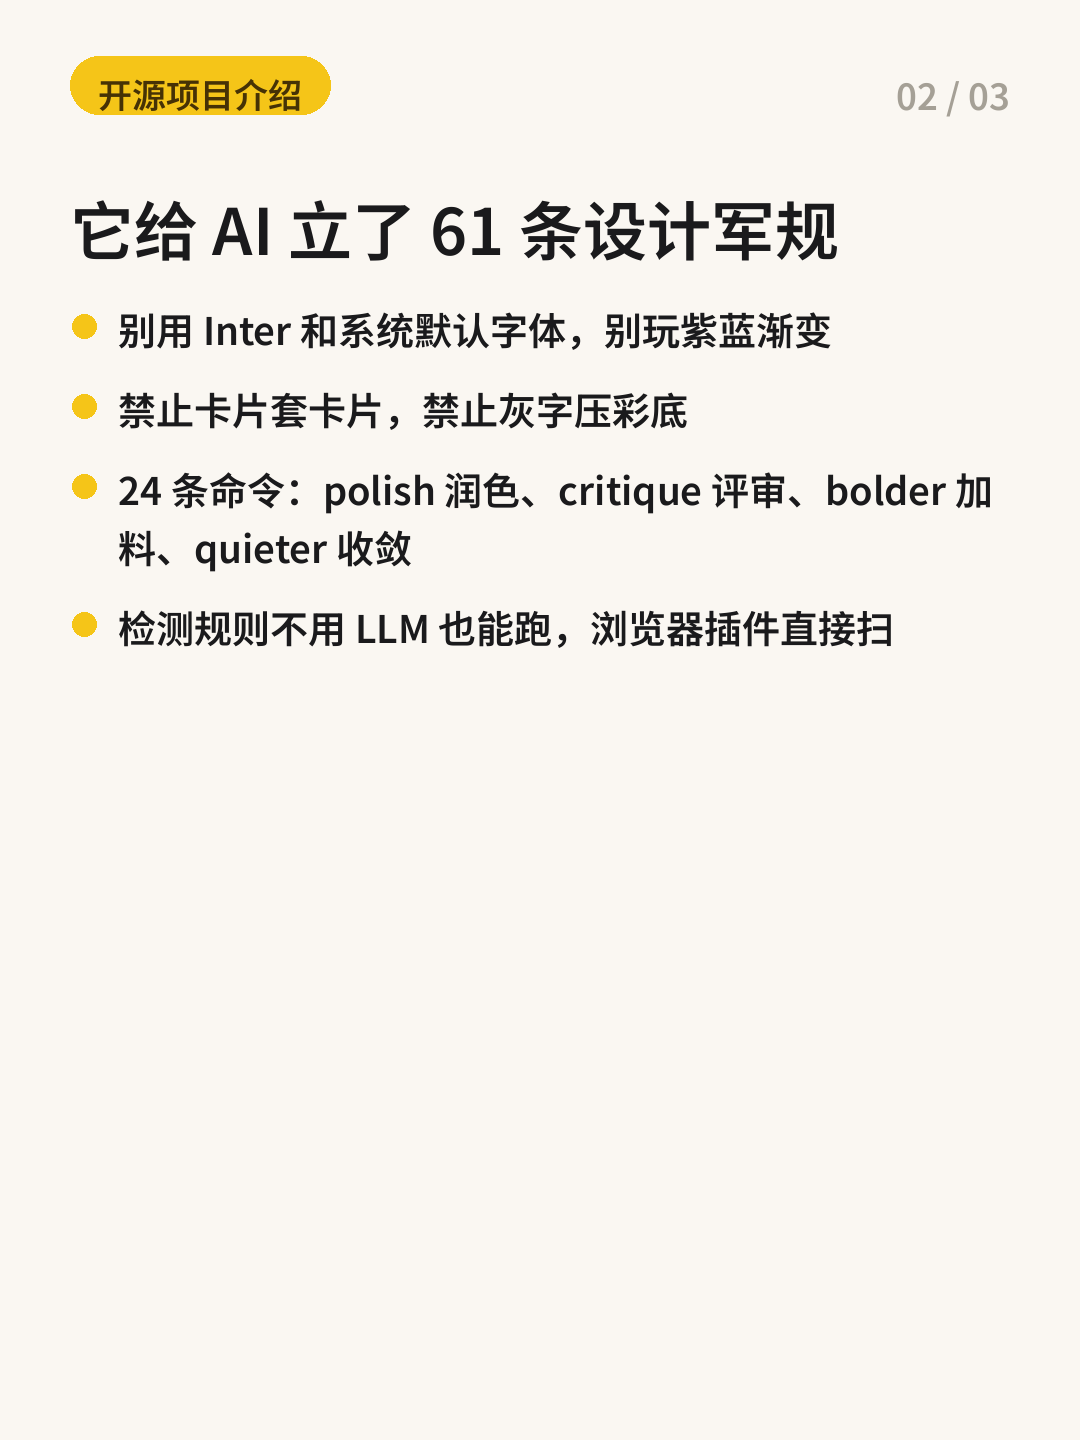
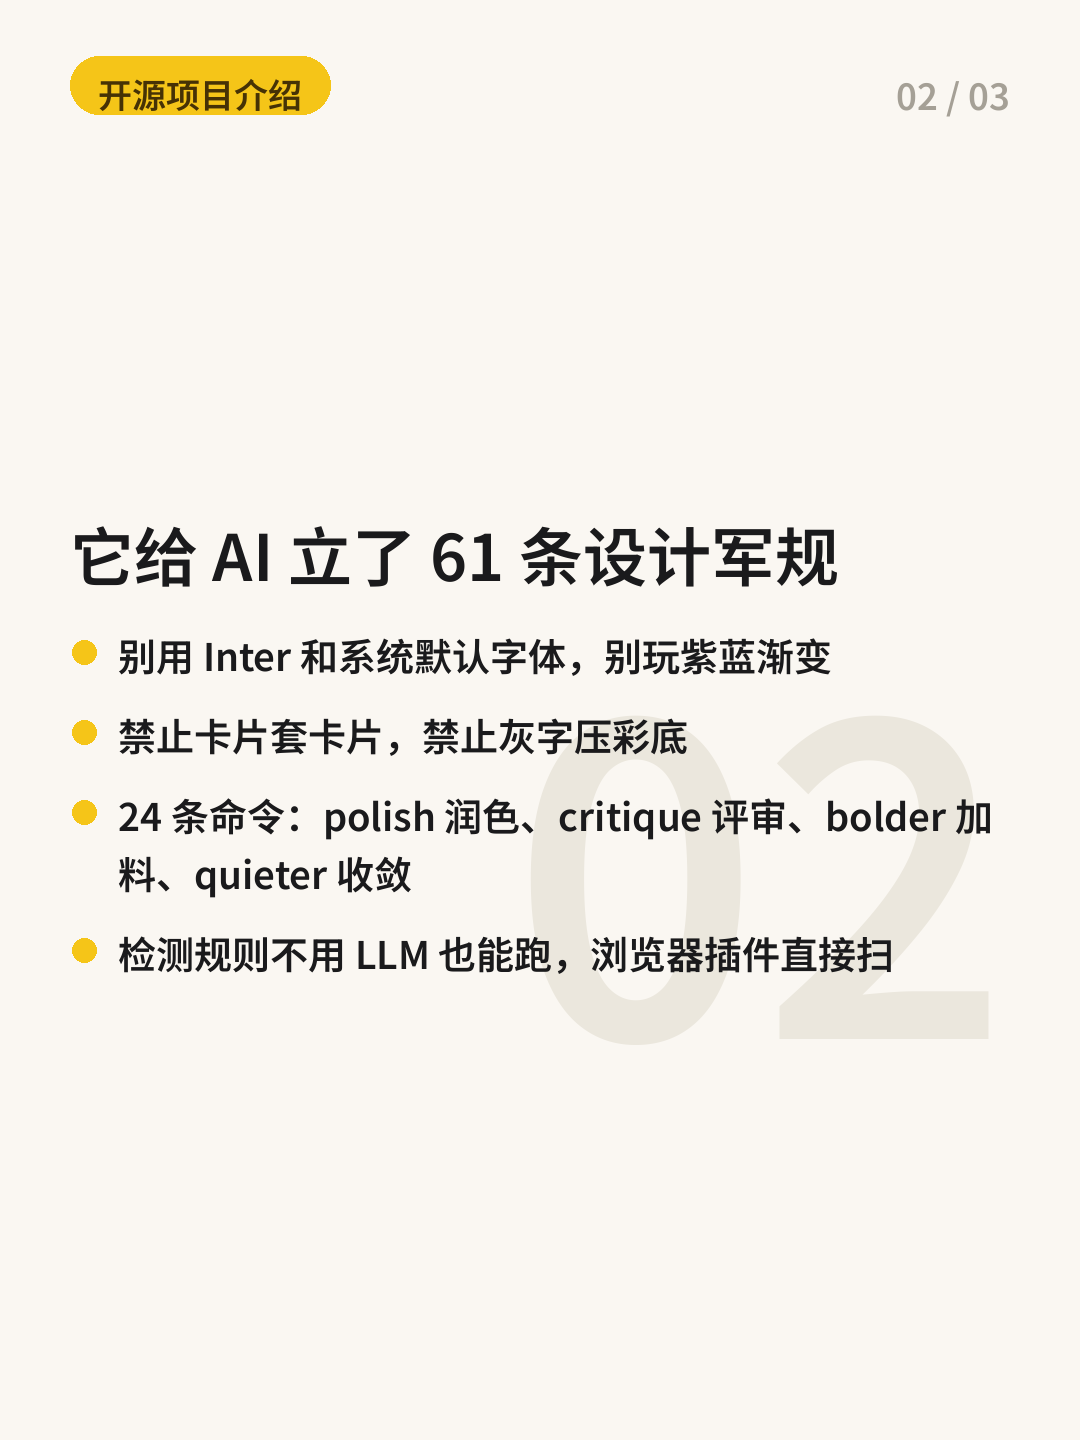
项目介绍卡片精修：内容垂直居中+背景数字水印

diff --git a/scripts/generate_xhs_project_cards.py b/scripts/generate_xhs_project_cards.py
@@ -25,6 +25,9 @@ def _new():
     img = Image.new('RGB', (W, H), BG)
     return img, ImageDraw.Draw(img)
 
+_dummy_img = Image.new('RGB', (W, H), BG)
+dummy_d = ImageDraw.Draw(_dummy_img)
+
 
 def _pill(d, x, y, text):
     f = _font(34)
@@ -41,37 +44,75 @@ def _header(d, idx, total):
     d.text((W - 70 - tw, 68), t, font=f, fill=DIM)
 
 
+GHOST = (235, 231, 221)
+
+def _ghost_num(d, idx, y_center):
+    """背景大数字水印"""
+    f = _font(430)
+    t = f'{idx + 1:02d}'
+    tw = d.textlength(t, font=f)
+    d.text((W - 70 - tw, y_center - 215), t, font=f, fill=GHOST)
+
+def _measure_card(title, bullets, code):
+    """预量内容卡高度，返回 (title_lines, bullet_lines_list, code_h, total_h)"""
+    f_title, f_b = _font(64), _font(38)
+    tl = _wrap(dummy_d, _clean(title), f_title, W - 140)[:2]
+    th = len(tl) * 90
+    bl = []
+    bh = 0
+    for b in bullets:
+        ln = _wrap(dummy_d, _clean(b), f_b, W - 140 - 56)[:3]
+        bl.append(ln)
+        bh += len(ln) * 58 + 22
+    ch = 0
+    if code:
+        f_c = _font(38)
+        cl = _wrap(dummy_d, _clean(code), f_c, W - 140 - 64)
+        ch = 16 + 36 + len(cl) * 58 + 28
+    total = th + 30 + bh + ch
+    return tl, bl, ch, total
+
 def draw_cover(kicker, title, subtitle, stats, points, path):
     img, d = _new()
     _pill(d, 70, 56, kicker)
-    y = 290
-    f_title = _font(96)
-    for ln in _wrap(d, _clean(title), f_title, W - 140)[:2]:
+    f_title, f_sub, f_st = _font(96), _font(46), _font(38)
+    tl = _wrap(d, _clean(title), f_title, W - 140)[:2]
+    sl = _wrap(d, _clean(subtitle), f_sub, W - 140)[:2]
+    # 预量
+    th = len(tl) * 124 + 10 + len(sl) * 64 + 30 + 72 + 130 + 10
+    ph = 0
+    f_t = _font(40)
+    pl = []
+    for pt in points:
+        ln = _wrap(d, _clean(pt), f_t, W - 300)[:2]
+        pl.append(ln)
+        ph += len(ln) * 60 + 44
+    total_h = th + 60 + ph
+    top, bottom = 190, H - 120
+    y = top + max(0, (bottom - top - total_h) / 2)
+    for ln in tl:
         d.text((70, y), ln, font=f_title, fill=INK)
         y += 124
     y += 10
-    f_sub = _font(46)
-    for ln in _wrap(d, _clean(subtitle), f_sub, W - 140)[:2]:
+    for ln in sl:
         d.text((72, y), ln, font=f_sub, fill=YELLOW_D)
         y += 64
     y += 30
-    # 数据条
-    f_st = _font(38)
     tw = d.textlength(stats, font=f_st)
     d.rounded_rectangle([70, y, 70 + tw + 56, y + 72], radius=36, fill=INK)
     d.text((98, y + 16), stats, font=f_st, fill=WHITE)
     y += 130
     d.rectangle([72, y, 200, y + 10], fill=YELLOW)
     y += 60
-    f_n, f_t = _font(42), _font(40)
-    for i, pt in enumerate(points):
+    f_n = _font(42)
+    for i, ln in enumerate(pl):
         cy = y + 30
         d.ellipse([78, cy - 30, 138, cy + 30], fill=YELLOW)
         n = str(i + 1)
         nw = d.textlength(n, font=f_n)
         d.text((108 - nw / 2, cy - 31), n, font=f_n, fill=BROWN)
-        for ln in _wrap(d, _clean(pt), f_t, W - 300)[:2]:
-            d.text((168, y), ln, font=f_t, fill=INK)
+        for l2 in ln:
+            d.text((168, y), l2, font=f_t, fill=INK)
             y += 60
         y += 44
     img.save(path)
@@ -80,28 +121,30 @@ def draw_cover(kicker, title, subtitle, stats, points, path):
 def draw_card(title, bullets, code, idx, total, path):
     img, d = _new()
     _header(d, idx, total)
-    y = 180
+    tl, bl, ch, total_h = _measure_card(title, bullets, code)
+    # 内容在 header 下方区域垂直居中
+    top, bottom = 190, H - 120
+    y = top + max(0, (bottom - top - total_h) / 2)
+    _ghost_num(d, idx, top + (bottom - top) / 2)
     f_title = _font(64)
-    for ln in _wrap(d, _clean(title), f_title, W - 140)[:2]:
+    for ln in tl:
         d.text((70, y), ln, font=f_title, fill=INK)
         y += 90
     y += 30
     f_b = _font(38)
-    for b in bullets:
-        for j, ln in enumerate(_wrap(d, _clean(b), f_b, W - 140 - 56)[:3]):
-            x = 70 if j > 0 else 70
+    for lines in bl:
+        for j, ln in enumerate(lines):
             if j == 0:
                 d.ellipse([72, y + 14, 96, y + 38], fill=YELLOW)
-            d.text((118 if j == 0 else 118, y), ln, font=f_b, fill=INK)
+            d.text((118, y), ln, font=f_b, fill=INK)
             y += 58
         y += 22
     if code:
         y += 16
         f_c = _font(38)
         cl = _wrap(d, _clean(code), f_c, W - 140 - 64)
-        ch = 36 + len(cl) * 58 + 28
-        d.rounded_rectangle([70, y, W - 70, y + ch], radius=20, fill=CODE_BG)
-        # 三个小圆点
+        chh = 36 + len(cl) * 58 + 28
+        d.rounded_rectangle([70, y, W - 70, y + chh], radius=20, fill=CODE_BG)
         for k, c in enumerate([(255, 95, 86), (255, 189, 46), (39, 201, 63)]):
             d.ellipse([100 + k * 34, y + 22, 122 + k * 34, y + 44], fill=c)
         ty = y + 58
@@ -115,21 +158,23 @@ def draw_card(title, bullets, code, idx, total, path):
 def draw_end(jinju, question, path):
     img, d = _new()
     _pill(d, 70, 56, '开源项目介绍')
-    y = 420
-    f_j = _font(56)
-    for ln in _wrap(d, _clean(jinju), f_j, W - 140)[:3]:
+    f_j, f_q, f_fav = _font(56), _font(42), _font(40)
+    jl = _wrap(d, _clean(jinju), f_j, W - 140)[:3]
+    ql = _wrap(d, _clean(question), f_q, W - 140)[:3]
+    t = '收藏这篇，下次让 AI 做页面时翻出来'
+    total_h = len(jl) * 84 + 60 + 10 + 70 + len(ql) * 66 + 40 + 84
+    top, bottom = 190, H - 120
+    y = top + max(0, (bottom - top - total_h) / 2)
+    for ln in jl:
         d.text((70, y), ln, font=f_j, fill=INK)
         y += 84
     y += 60
     d.rectangle([72, y, 200, y + 10], fill=YELLOW)
     y += 70
-    f_q = _font(42)
-    for ln in _wrap(d, _clean(question), f_q, W - 140)[:3]:
+    for ln in ql:
         d.text((70, y), ln, font=f_q, fill=GRAY)
         y += 66
     y += 40
-    f_fav = _font(40)
-    t = '收藏这篇，下次让 AI 做页面时翻出来'
     tw = d.textlength(t, font=f_fav)
     d.rounded_rectangle([(W - tw) / 2 - 30, y, (W + tw) / 2 + 30, y + 84],
                         radius=42, fill=YELLOW)
